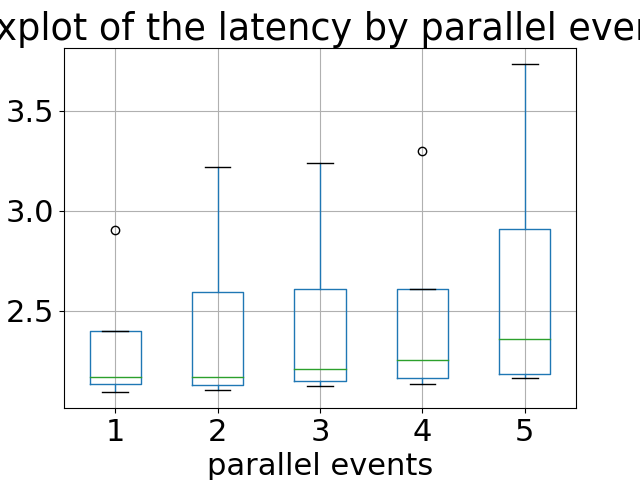
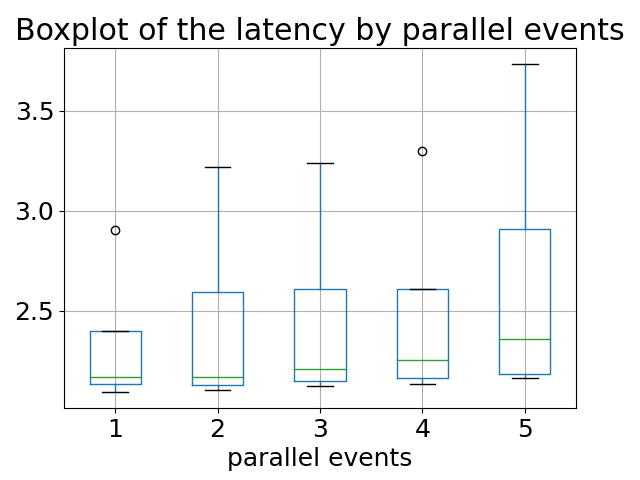
right font size

diff --git a/caseStudies/visualizePerformanceTestResults.py b/caseStudies/visualizePerformanceTestResults.py
@@ -3,7 +3,7 @@ import sys
 import matplotlib.pyplot as plt
 import matplotlib
 
-matplotlib.rcParams.update({'font.size': 22})
+matplotlib.rcParams.update({'font.size': 18})
 
 def main(file_path):
     df = pandas.read_csv(file_path)
